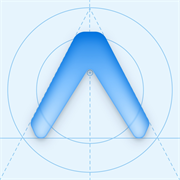
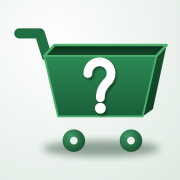
Nová ikona: zelený košík s otazníkem v perspektivě (varianta D)
Kresba je v app/scripts/icon-render.js (SVG + sharp), z ní vznikají
ikona aplikace, favicon, ikony pro plochu iPhonu a podklady pro Android.

diff --git a/app/scripts/icon-render.js b/app/scripts/icon-render.js
@@ -1,0 +1,174 @@
+// Icon source of Kup / Nekup. Regenerate every PNG after editing the drawing:
+//   cd app && npm i --no-save sharp && node scripts/icon-render.js apply D .
+//   (preview: node scripts/icon-render.js preview -> out/*.png next to this file)
+
+// Renders the "shopping cart with a question mark" icon from an inline SVG.
+// Usage: node render.js preview            -> out/A-512.png, out/B-512.png
+//        node render.js apply A <appDir>   -> writes every icon the app needs
+const sharp = require("sharp");
+const fs = require("fs");
+const path = require("path");
+
+const GREEN = "#1F6F43";
+const VARIANTS = {
+  // white cart on the brand green, green question mark
+  A: { bg: GREEN, cart: "#FFFFFF", mark: GREEN },
+  // green cart on a light background, white question mark
+  B: { bg: "#F1F6F2", cart: GREEN, mark: "#FFFFFF" },
+};
+
+/** The cart drawing in a 1024 box; `scale` shrinks it around the centre (adaptive icon safe zone). */
+function cart({ cart, mark }, scale = 1) {
+  const t = scale === 1 ? "" : `transform="translate(512 512) scale(${scale}) translate(-512 -512)"`;
+  return `
+  <g ${t}>
+    <polyline points="115,195 228,195 268,310" fill="none" stroke="${cart}" stroke-width="58" stroke-linecap="round" stroke-linejoin="round"/>
+    <polygon points="250,300 885,300 808,660 326,660" fill="${cart}" stroke="${cart}" stroke-width="40" stroke-linejoin="round"/>
+    <circle cx="405" cy="802" r="62" fill="${cart}"/>
+    <circle cx="735" cy="802" r="62" fill="${cart}"/>
+    <path d="M 505 412 A 62 62 0 1 1 604 461 C 588 482 567 500 567 545" fill="none" stroke="${mark}" stroke-width="46" stroke-linecap="round" stroke-linejoin="round"/>
+    <circle cx="567" cy="604" r="29" fill="${mark}"/>
+  </g>`;
+}
+
+/**
+ * Perspective cart: an open box seen from the front and slightly above – top
+ * opening with a dark inner wall, lighter front face, shaded side face, wheels
+ * with a highlight and a soft ground shadow. `p` = palette.
+ */
+function cart3d(p, scale = 1) {
+  const t = scale === 1 ? "" : `transform="translate(512 512) scale(${scale}) translate(-512 -512)"`;
+  const dx = 58; // depth offset of the back edge (to the right and up)
+  const dy = -62;
+  return `
+  <defs>
+    <linearGradient id="front" x1="0" y1="0" x2="0" y2="1">
+      <stop offset="0" stop-color="${p.frontTop}"/><stop offset="1" stop-color="${p.frontBottom}"/>
+    </linearGradient>
+    <linearGradient id="side" x1="0" y1="0" x2="0" y2="1">
+      <stop offset="0" stop-color="${p.sideTop}"/><stop offset="1" stop-color="${p.sideBottom}"/>
+    </linearGradient>
+    <linearGradient id="inner" x1="0" y1="0" x2="0" y2="1">
+      <stop offset="0" stop-color="${p.innerTop}"/><stop offset="1" stop-color="${p.innerBottom}"/>
+    </linearGradient>
+    <radialGradient id="wheel" cx="0.35" cy="0.3" r="0.8">
+      <stop offset="0" stop-color="${p.wheelHi}"/><stop offset="1" stop-color="${p.wheelLo}"/>
+    </radialGradient>
+    <filter id="shadow" x="-30%" y="-30%" width="160%" height="160%">
+      <feGaussianBlur stdDeviation="22"/>
+    </filter>
+    <filter id="markShadow" x="-30%" y="-30%" width="160%" height="160%">
+      <feGaussianBlur stdDeviation="8"/>
+    </filter>
+  </defs>
+  <g ${t}>
+    <!-- ground shadow -->
+    <ellipse cx="575" cy="845" rx="330" ry="46" fill="${p.shadow}" opacity="0.45" filter="url(#shadow)"/>
+    <!-- handle -->
+    <polyline points="110,190 226,190 266,318" fill="none" stroke="${p.handle}" stroke-width="58" stroke-linecap="round" stroke-linejoin="round"/>
+    <!-- inner wall seen through the opening -->
+    <polygon points="252,318 ${252 + dx},${318 + dy} ${890 + dx},${318 + dy} 890,318" fill="url(#inner)"/>
+    <!-- side face -->
+    <polygon points="890,318 ${890 + dx},${318 + dy} ${812 + dx},${662 + dy + 20} 812,662" fill="url(#side)"/>
+    <!-- front face -->
+    <polygon points="252,318 890,318 812,662 330,662" fill="url(#front)" stroke="${p.rim}" stroke-width="10" stroke-linejoin="round"/>
+    <!-- rim highlight along the opening -->
+    <polyline points="252,318 ${252 + dx},${318 + dy} ${890 + dx},${318 + dy} 890,318" fill="none" stroke="${p.rim}" stroke-width="14" stroke-linejoin="round" stroke-linecap="round"/>
+    <!-- wheels -->
+    <circle cx="420" cy="800" r="64" fill="url(#wheel)"/>
+    <circle cx="420" cy="800" r="22" fill="${p.hub}"/>
+    <circle cx="745" cy="800" r="64" fill="url(#wheel)"/>
+    <circle cx="745" cy="800" r="22" fill="${p.hub}"/>
+    <!-- question mark standing in the cart: shadow, then the mark -->
+    <g opacity="0.35" filter="url(#markShadow)" transform="translate(10 14)">
+      <path d="M 500 418 A 66 66 0 1 1 606 470 C 589 493 571 512 571 556" fill="none" stroke="#000" stroke-width="50" stroke-linecap="round" stroke-linejoin="round"/>
+      <circle cx="571" cy="616" r="31" fill="#000"/>
+    </g>
+    <path d="M 500 418 A 66 66 0 1 1 606 470 C 589 493 571 512 571 556" fill="none" stroke="${p.mark}" stroke-width="50" stroke-linecap="round" stroke-linejoin="round"/>
+    <circle cx="571" cy="616" r="31" fill="${p.mark}"/>
+  </g>`;
+}
+
+const PALETTES = {
+  // white cart with a grey underside on a deep green gradient
+  C: {
+    bgTop: "#2E8F5C", bgBottom: "#14532F",
+    frontTop: "#FFFFFF", frontBottom: "#E4EAE6", sideTop: "#C9D3CD", sideBottom: "#9FB0A7",
+    innerTop: "#0F3D22", innerBottom: "#1C6A3E", rim: "#FFFFFF", handle: "#FFFFFF",
+    wheelHi: "#FFFFFF", wheelLo: "#B8C4BD", hub: "#1F6F43", shadow: "#000000", mark: "#1F6F43",
+  },
+  // green cart on a light gradient
+  D: {
+    bgTop: "#FFFFFF", bgBottom: "#DCE8E0",
+    frontTop: "#2C8A55", frontBottom: "#1A5F38", sideTop: "#17522F", sideBottom: "#0F3D22",
+    innerTop: "#0B2E19", innerBottom: "#15492A", rim: "#4CAF6E", handle: "#1F6F43",
+    wheelHi: "#3F9A66", wheelLo: "#154B2A", hub: "#E8F2EB", shadow: "#1F3A2A", mark: "#FFFFFF",
+  },
+};
+
+function svg3d(name, { background = true, scale = 1, size = 1024 } = {}) {
+  const p = PALETTES[name];
+  return `<svg xmlns="http://www.w3.org/2000/svg" width="${size}" height="${size}" viewBox="0 0 1024 1024">
+  <defs>
+    <radialGradient id="bg" cx="0.3" cy="0.25" r="1.1">
+      <stop offset="0" stop-color="${p.bgTop}"/><stop offset="1" stop-color="${p.bgBottom}"/>
+    </radialGradient>
+  </defs>
+  ${background ? `<rect width="1024" height="1024" fill="url(#bg)"/>` : ""}
+  ${cart3d(p, scale)}
+</svg>`;
+}
+
+function svg(v, { background = true, scale = 1, size = 1024 } = {}) {
+  return `<svg xmlns="http://www.w3.org/2000/svg" width="${size}" height="${size}" viewBox="0 0 1024 1024">
+  ${background ? `<rect width="1024" height="1024" fill="${v.bg}"/>` : ""}
+  ${cart(v, scale)}
+</svg>`;
+}
+
+async function png(svgText, size, file) {
+  fs.mkdirSync(path.dirname(file), { recursive: true });
+  await sharp(Buffer.from(svgText), { density: 300 }).resize(size, size).png().toFile(file);
+  console.log(`${path.basename(file)} ${size}px`);
+}
+
+async function main() {
+  const [mode, variantName = "A", appDir] = process.argv.slice(2);
+  if (mode === "preview") {
+    for (const [name, v] of Object.entries(VARIANTS)) await png(svg(v), 512, path.join(__dirname, "out", `${name}-512.png`));
+    for (const name of Object.keys(PALETTES)) await png(svg3d(name), 512, path.join(__dirname, "out", `${name}-512.png`));
+    return;
+  }
+  if (mode === "preview3d") {
+    for (const name of Object.keys(PALETTES)) await png(svg3d(name), 512, path.join(__dirname, "out", `${name}-512.png`));
+    return;
+  }
+  if (mode === "apply") {
+    if (!appDir) throw new Error("usage: node render.js apply A|B|C|D <appDir>");
+    const flat = VARIANTS[variantName];
+    const p = PALETTES[variantName];
+    if (!flat && !p) throw new Error("unknown variant " + variantName);
+    const full = (opts) => (p ? svg3d(variantName, opts) : svg(flat, opts));
+    const bgColor = p ? p.bgBottom : flat.bg;
+    const assets = path.join(appDir, "assets");
+    const pub = path.join(appDir, "public");
+    await png(full(), 1024, path.join(assets, "icon.png"));
+    await png(full(), 48, path.join(assets, "favicon.png"));
+    await png(full(), 1024, path.join(assets, "splash-icon.png"));
+    await png(full(), 180, path.join(pub, "apple-touch-icon.png"));
+    await png(full(), 192, path.join(pub, "icon-192.png"));
+    await png(full(), 512, path.join(pub, "icon-512.png"));
+    // Android adaptive icon: foreground inside the safe zone, flat background, white monochrome
+    await png(full({ background: false, scale: 0.62 }), 1024, path.join(assets, "android-icon-foreground.png"));
+    await png(`<svg xmlns="http://www.w3.org/2000/svg" viewBox="0 0 1024 1024"><rect width="1024" height="1024" fill="${bgColor}"/></svg>`, 1024, path.join(assets, "android-icon-background.png"));
+    await png(svg({ bg: "#000", cart: "#FFFFFF", mark: "#000000" }, { background: false, scale: 0.62 }), 1024, path.join(assets, "android-icon-monochrome.png"));
+    console.log("background colour for app.json:", bgColor);
+    return;
+  }
+  throw new Error("unknown mode");
+}
+
+main().catch((err) => {
+  console.error(err);
+  process.exit(1);
+});
